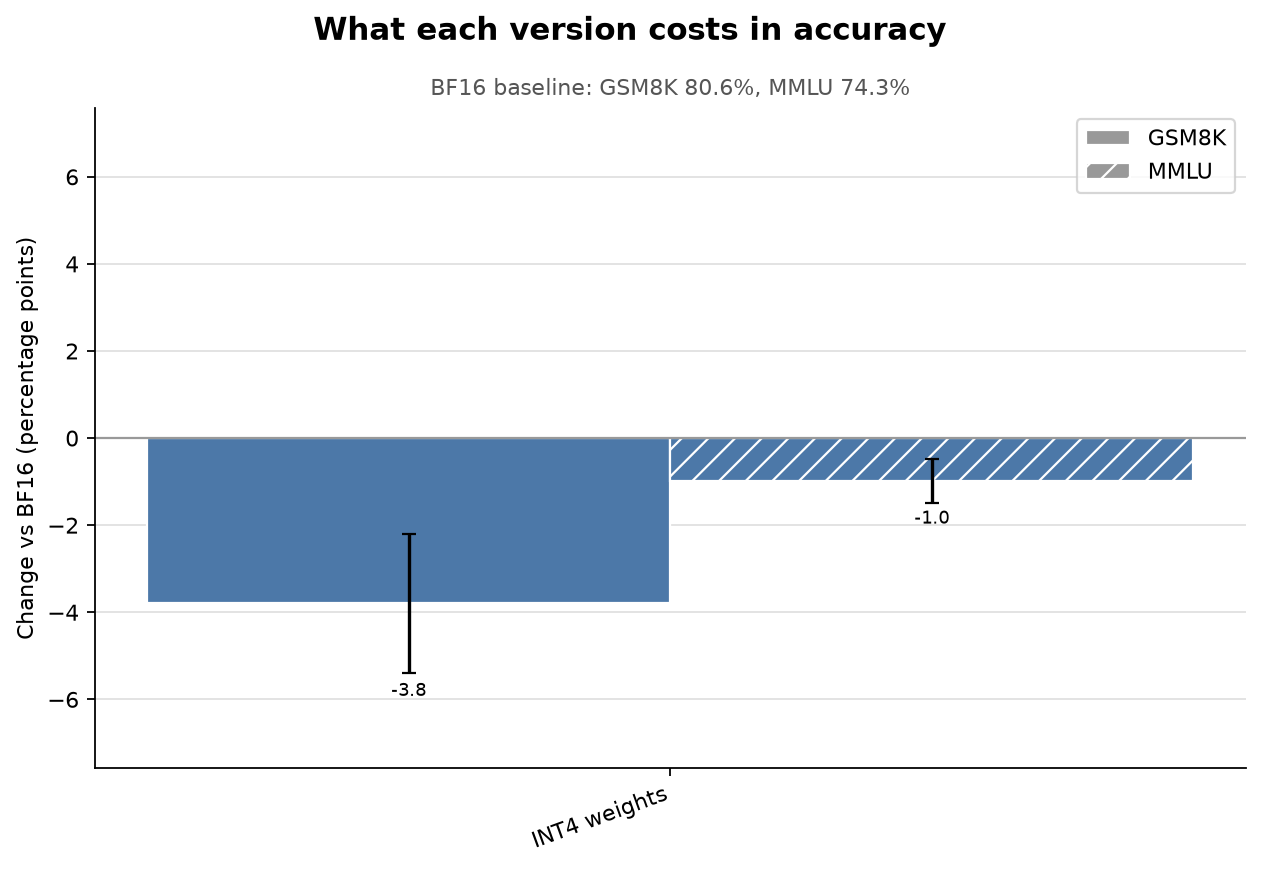
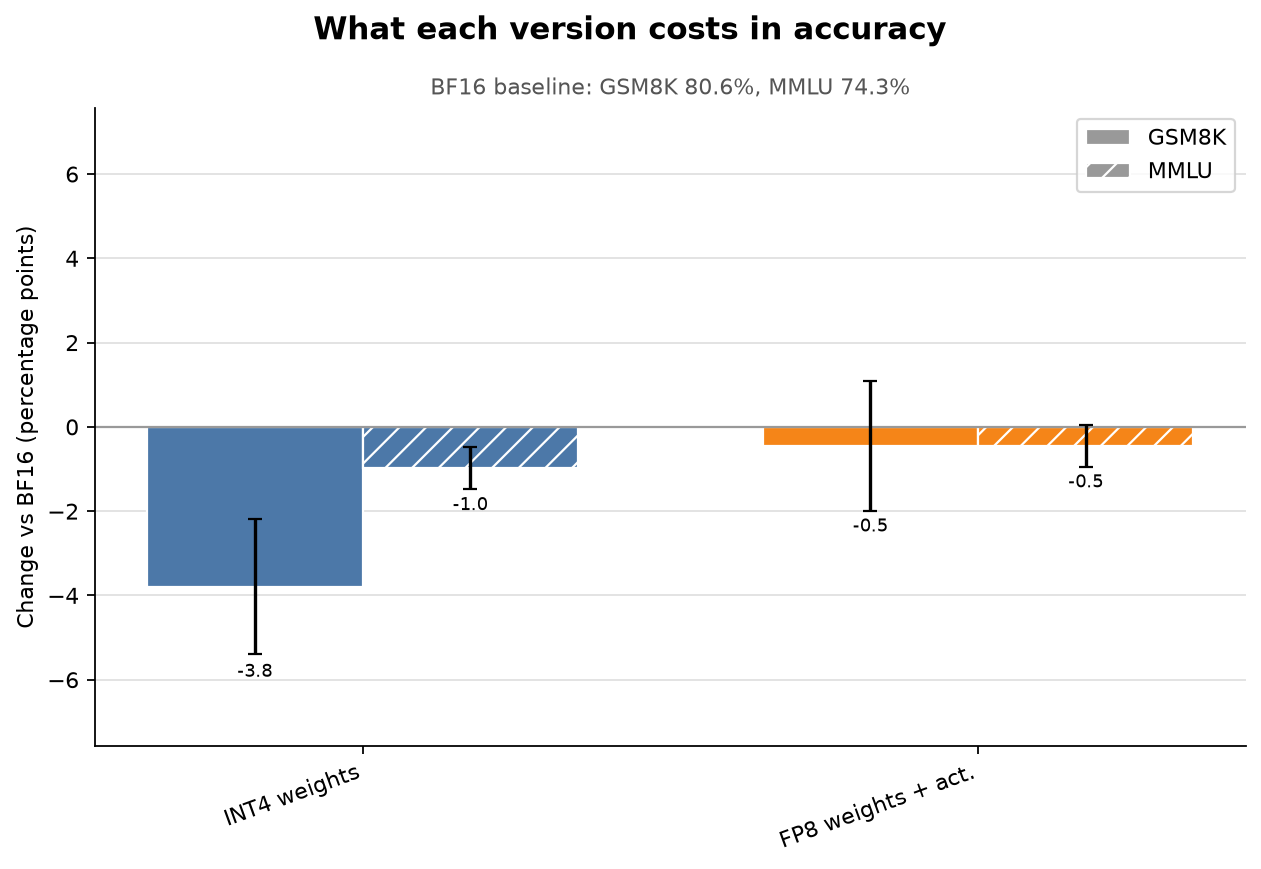
Update article figures for w8a8-fp8, restyle fig4 timing chart
Adds --uptime-hours flag for accurate cost captioning and switches
fig4 to a teal palette with GPU-hours-only totals.

diff --git a/scripts/article_plots.py b/scripts/article_plots.py
@@ -11,7 +11,7 @@ Produces, under results/article/:
     summary.md             one table with every number behind the figures
 
 Usage:
-    python scripts/article_plots.py --model target --rate 1.09
+    python scripts/article_plots.py --model target --rate 1.11 --uptime-hours 12.5
 """
 from __future__ import annotations
 
@@ -302,7 +302,7 @@ def bench_seconds(cfg: Config) -> float:
     return sum(b.get("duration", 0.0) for b in cfg.bench.values() if b)
 
 
-def fig4_timing(configs: list[Config], rate: float, out_dir: Path) -> tuple[float, float]:
+def fig4_timing(configs: list[Config], rate: float, uptime_hours: float, out_dir: Path) -> float:
     fig, ax = plt.subplots(figsize=(10, max(4, 0.6 * len(configs))))
 
     y = list(range(len(configs)))
@@ -312,16 +312,16 @@ def fig4_timing(configs: list[Config], rate: float, out_dir: Path) -> tuple[floa
     eval_h = [c.eval.get("eval_seconds", 0.0) / 3600 for c in configs]
     bench_h = [bench_seconds(c) / 3600 for c in configs]
 
-    ax.barh(y, quant_h, color="#4d4d4d", label="Quantize", zorder=2)
+    ax.barh(y, quant_h, color="#8fd9c4", label="Quantize", zorder=2)
     left = list(quant_h)
-    ax.barh(y, eval_h, left=left, color="#9e9e9e", label="Accuracy tests", zorder=2)
+    ax.barh(y, eval_h, left=left, color="#1f7a8c", label="Accuracy tests", zorder=2)
     left = [a + b for a, b in zip(left, eval_h)]
-    ax.barh(y, bench_h, left=left, color="#d4d4d4", label="Speed tests", zorder=2)
+    ax.barh(y, bench_h, left=left, color="#0b3d4a", label="Speed tests", zorder=2)
 
     totals = [q + e + b for q, e, b in zip(quant_h, eval_h, bench_h)]
-    ax.set_xlim(0, max(totals) * 1.28)
+    ax.set_xlim(0, max(totals) * 1.2)
     for yi, total in zip(y, totals):
-        ax.text(total, yi, f"  {total:.2f}h (\\${total * rate:.2f})", va="center", fontsize=8)
+        ax.text(total, yi, f"  {total:.2f}h", va="center", fontsize=8)
 
     ax.set_yticks(y)
     ax.set_yticklabels(labels)
@@ -333,19 +333,21 @@ def fig4_timing(configs: list[Config], rate: float, out_dir: Path) -> tuple[floa
 
     handles, leg_labels = ax.get_legend_handles_labels()
     fig.legend(handles, leg_labels, loc="lower center", ncol=3, bbox_to_anchor=(0.5, -0.02))
-    fig.text(0.5, -0.06, "GPU time for the final run only; excludes setup and debugging.",
-              ha="center", fontsize=8, color="#777777", style="italic")
+    fig.text(
+        0.5, -0.06,
+        f"Bars show GPU time per config in the final run. One NVIDIA L40S at "
+        f"\\${rate:.2f}/hr; total pod uptime: {uptime_hours:.1f} hours.",
+        ha="center", fontsize=8, color="#777777", style="italic",
+    )
 
     grand_total_h = sum(totals)
-    grand_total_cost = grand_total_h * rate
-    fig.suptitle(
-        f"Total: {grand_total_h:.2f} GPU-hours, \\${grand_total_cost:.2f} at \\${rate:.2f}/hr",
-        fontsize=13, fontweight="bold",
-    )
+    fig.suptitle("Where the GPU time went", fontsize=14, fontweight="bold")
+    ax.set_title(f"Total: {grand_total_h:.2f} GPU-hours across {len(configs)} configs",
+                 fontsize=10, color="#555555")
     fig.tight_layout(rect=(0, 0.1, 1, 0.93))
     fig.savefig(out_dir / "fig4_timing.png", dpi=160, bbox_inches="tight")
     plt.close(fig)
-    return grand_total_h, grand_total_cost
+    return grand_total_h
 
 
 # ---------------------------------------------------------------------------
@@ -421,7 +423,8 @@ def write_summary(configs: list[Config], bf16: Config, rate: float, out_dir: Pat
 def main() -> None:
     ap = argparse.ArgumentParser()
     ap.add_argument("--model", default="target")
-    ap.add_argument("--rate", type=float, default=1.09, help="$/GPU-hour")
+    ap.add_argument("--rate", type=float, default=1.11, help="$/GPU-hour")
+    ap.add_argument("--uptime-hours", type=float, required=True, help="total pod uptime, in hours")
     args = ap.parse_args()
 
     configs = load_configs(args.model)
@@ -436,7 +439,7 @@ def main() -> None:
     fig1_speedup(configs, bf16, ARTICLE_DIR)
     fig2_accuracy(configs, bf16, ARTICLE_DIR)
     fig3_kv_capacity(configs, bf16, ARTICLE_DIR)
-    fig4_timing(configs, args.rate, ARTICLE_DIR)
+    fig4_timing(configs, args.rate, args.uptime_hours, ARTICLE_DIR)
     write_summary(configs, bf16, args.rate, ARTICLE_DIR)
 
     print(f"Wrote figures + summary for {len(configs)} configs to {ARTICLE_DIR}")

diff --git a/results/article/summary.md b/results/article/summary.md
@@ -2,5 +2,6 @@
 |---|---|---|---|---|---|---|---|---|---|---|---|---|---|---|
 | BF16 (baseline) | 80.59% | +0.00 | 74.26% | +0.00 | 467,600 | +0% | 49.1 | 1864.0 | 1.00x | 1.00x | 11615.1 | 1.00x | 14.5 | 2.65 |
 | INT4 weights | 76.80% | -3.79 | 73.27% | -0.98 | 629,360 | +35% | 133.9 | 4388.6 | 2.73x | 2.35x | 12054.2 | 1.04x | 3.7 | 2.34 |
+| FP8 weights + act. | 80.14% | -0.45 | 73.80% | -0.46 | 568,960 | +22% | 73.4 | 2992.7 | 1.50x | 1.61x | 15218.5 | 1.31x | 3.5 | 2.20 |
 
-**Total: 4.99 GPU-hours, $5.44 at $1.09/hr**
+**Total: 7.19 GPU-hours, $7.98 at $1.11/hr**
